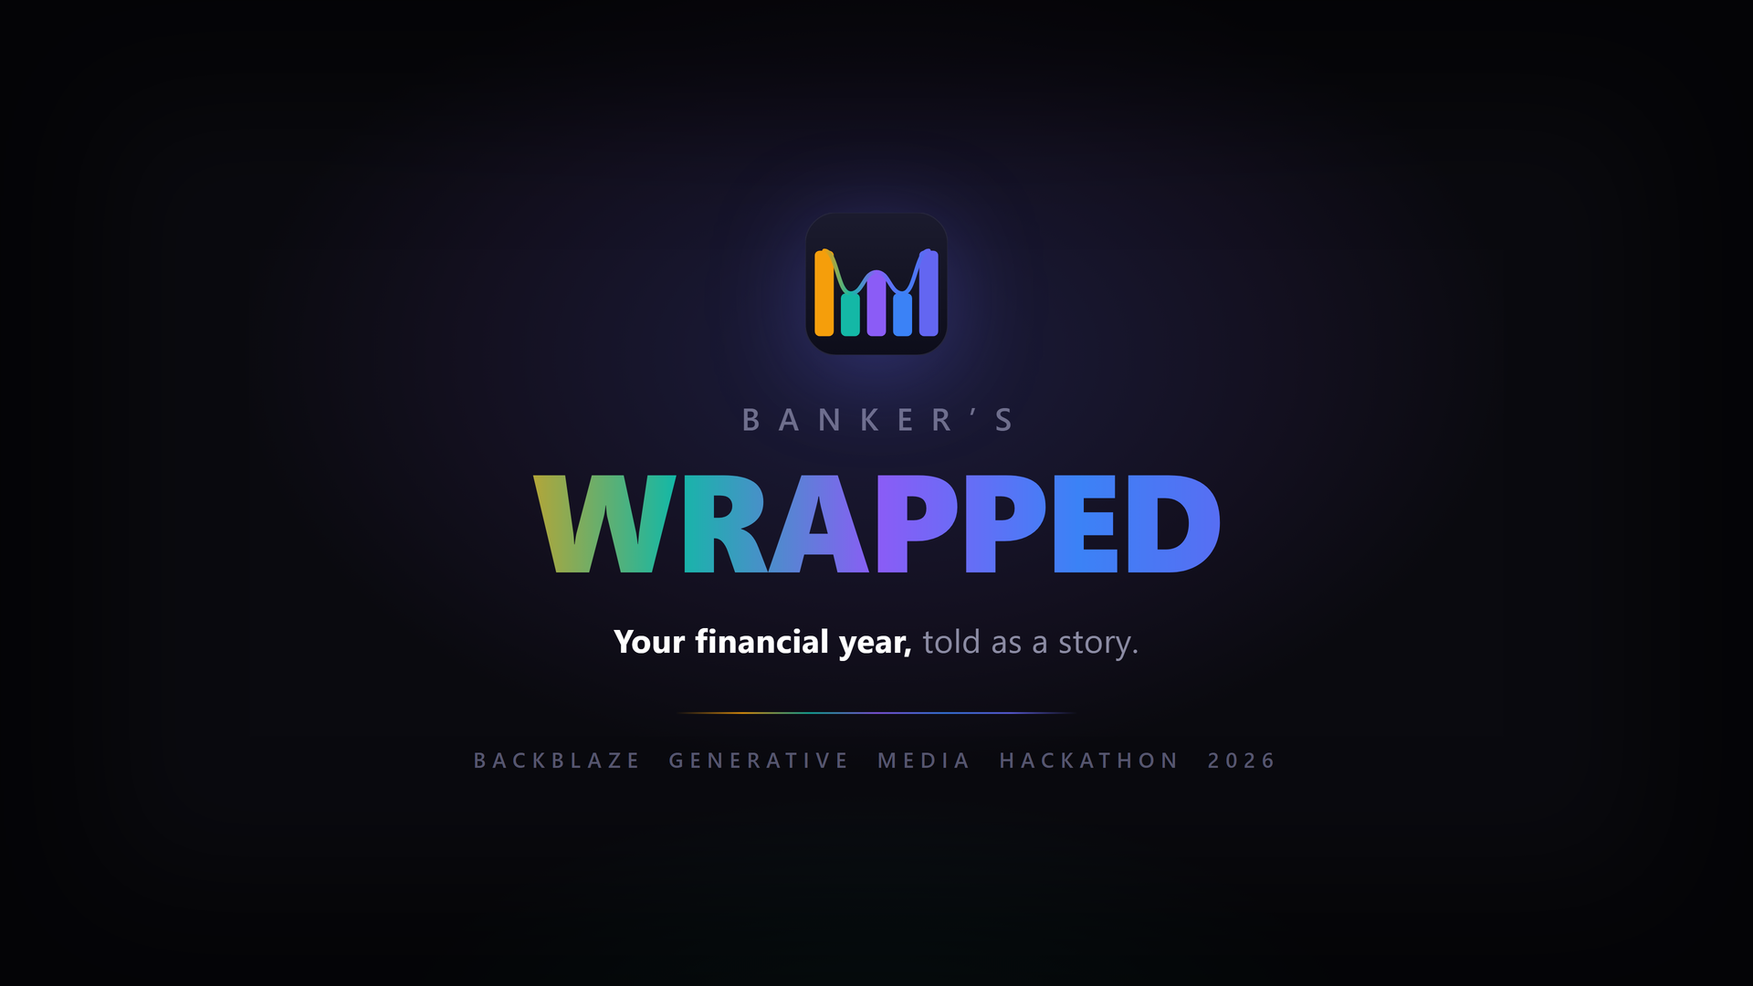
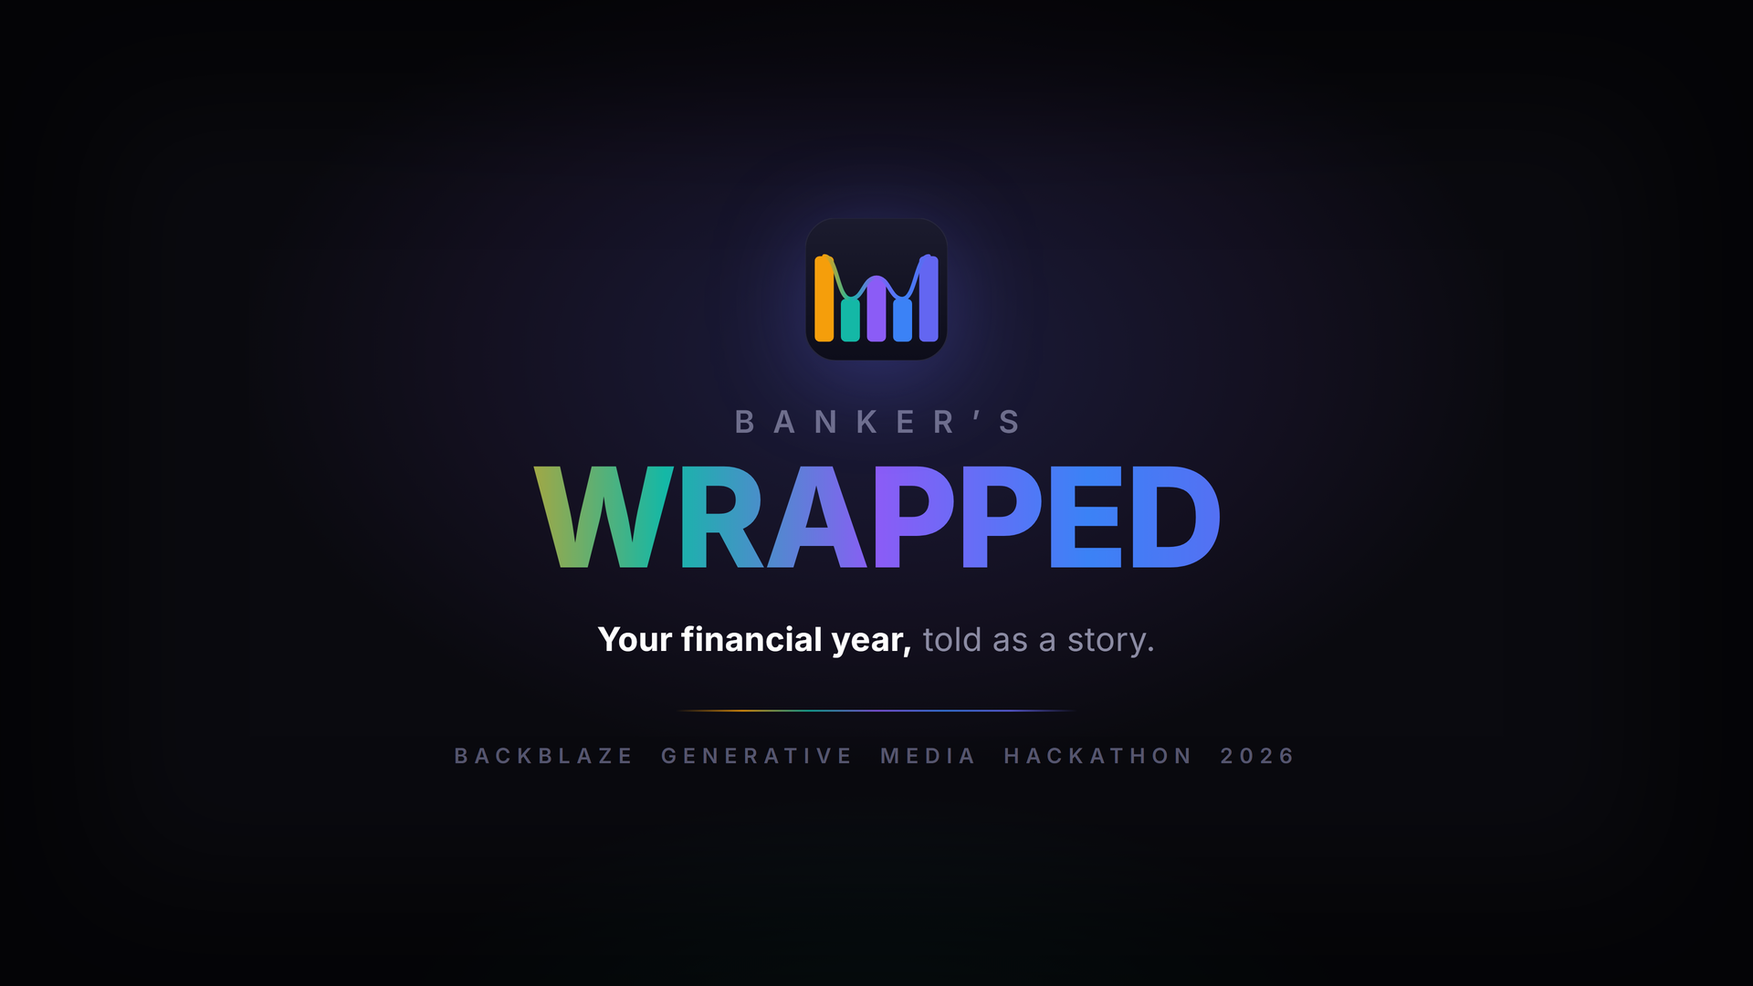
fix: real Inter loading + font-independent outlined wordmark
The deployed app referenced 'Inter' in CSS but never loaded it (no
@font-face / next/font / Google Fonts link), so every weight silently
fell back to system-ui. Load Inter via next/font/google (400/600/700/800)
and wire it through the --font-inter variable.

Replace the live-HTML gradient "Wrapped" title with a pre-outlined SVG
(frontend/public/wordmark.svg — glyphs converted to vector paths). As a
full-width block, the old 5-stop background-clip:text gradient painted
across the whole card while the centered glyphs only covered its middle,
hiding the amber/teal ends; the outlined SVG carries the full gradient,
needs no webfont, and renders pixel-identical everywhere at any DPI.
Applied to the home header and both recap-page headers. Add the idle
tagline echoing the signoff card and give the subtitle + tagline the
same bold emphasis as the brand cards.

Also load real Inter via Google Fonts in banner.html/signoff.html and
re-render the PNGs so the cards no longer depend on a system Segoe UI;
correct the demo-cards README's stale "Inter/Segoe" claim and its PNG
re-export command. Bump the app version and add the changelog entry.

Move the Architecture Decision Records table in README so it sits
directly under the Architecture diagram instead of at the bottom under
Production & Quality — the demo script scrolls straight from the
diagram to the ADR list, and the two were previously ~270 lines apart.
Tighten the corresponding DEMO_SCRIPT.md scroll cue to match.

diff --git a/frontend/app/globals.css b/frontend/app/globals.css
@@ -90,7 +90,7 @@ body { margin: 0; padding: 0; }
   align-items: center;
   justify-content: center;
   padding: 24px;
-  font-family: 'Inter', system-ui, sans-serif;
+  font-family: var(--font-inter), 'Inter', system-ui, sans-serif;
 }
 
 .bw-card {
@@ -122,18 +122,13 @@ body { margin: 0; padding: 0; }
   margin: 0 0 2px;
 }
 
-.bw-title {
-  font-size: 40px;
-  font-weight: 800;
-  margin: 0;
-  letter-spacing: -0.03em;
-  background: linear-gradient(90deg, #F59E0B, #14B8A6, #8B5CF6, #3B82F6, #6366f1);
-  -webkit-background-clip: text;
-  -webkit-text-fill-color: transparent;
-  background-clip: text;
-}
+.bw-title { margin: 0; line-height: 0; }
+/* Wordmark is a pre-outlined SVG (glyphs → vector paths) so it renders
+   identically everywhere with zero font-loading dependency. */
+.bw-wordmark { display: block; margin: 0 auto; width: 210px; height: auto; }
 
 .bw-subtitle { color: var(--text-subtle); margin-top: 8px; font-size: 15px; }
+.bw-subtitle strong { font-weight: 700; color: var(--text-emphasis); }
 
 /* ── Drop zone ───────────────────────────────────────────────────────────── */
 .bw-dropzone {
@@ -150,6 +145,8 @@ body { margin: 0; padding: 0; }
 .bw-drop-icon  { font-size: 48px; margin-bottom: 16px; }
 .bw-drop-text  { color: var(--text-secondary); font-size: 16px; margin: 0 0 6px; }
 .bw-drop-hint  { color: var(--text-dimmer); font-size: 13px; margin: 0 0 28px; }
+.bw-idle-tagline { color: var(--text-dimmest); font-size: 12px; line-height: 1.7; text-align: center; margin: 20px 0 0; letter-spacing: 0.01em; }
+.bw-idle-tagline strong { font-weight: 700; color: var(--text-secondary); }
 .bw-demo-btn {
   background: transparent;
   border: 1px solid var(--border-dim);

diff --git a/frontend/app/page.tsx b/frontend/app/page.tsx
@@ -363,8 +363,8 @@ export default function Home() {
         <div className="bw-header">
           <img src="/icon.svg" alt="" aria-hidden="true" className="bw-logo-icon" width="72" height="72" />
           <span className="bw-brand-label">BANKER&apos;S</span>
-          <h1 className="bw-title">Wrapped</h1>
-          <p className="bw-subtitle">Your financial year, told as a story.</p>
+          <h1 className="bw-title"><img src="/wordmark.svg" alt="Wrapped" className="bw-wordmark" /></h1>
+          <p className="bw-subtitle"><strong>Your financial year,</strong> told as a story.</p>
         </div>
 
         {/* Upload zone */}
@@ -412,6 +412,13 @@ export default function Home() {
               </button>
             )}
           </div>
+        )}
+        {stage === "idle" && (
+          <p className="bw-idle-tagline">
+            <strong>One connection.</strong> <strong>Five scenes.</strong> Your financial story.
+            <br />
+            Powered by <strong>Genblaze</strong> on <strong>Backblaze B2</strong>.
+          </p>
         )}
 
         {/* Live pipeline progress */}

diff --git a/frontend/app/recap/[session_id]/page.tsx b/frontend/app/recap/[session_id]/page.tsx
@@ -103,7 +103,7 @@ export default function SharePage() {
           <div className="bw-header">
             <img src="/icon.svg" alt="" aria-hidden="true" className="bw-logo-icon" width="72" height="72" />
             <span className="bw-brand-label">BANKER&apos;S</span>
-            <h1 className="bw-title">Wrapped</h1>
+            <h1 className="bw-title"><img src="/wordmark.svg" alt="Wrapped" className="bw-wordmark" /></h1>
           </div>
           <div className="bw-error-box">
             <p className="bw-error-text">⚠ {error}</p>
@@ -140,7 +140,7 @@ export default function SharePage() {
         <div className="bw-header">
           <img src="/icon.svg" alt="" aria-hidden="true" className="bw-logo-icon" width="72" height="72" />
           <span className="bw-brand-label">BANKER&apos;S</span>
-          <h1 className="bw-title">Wrapped</h1>
+          <h1 className="bw-title"><img src="/wordmark.svg" alt="Wrapped" className="bw-wordmark" /></h1>
           <p className="bw-subtitle">Someone shared their financial story with you.</p>
         </div>
 

diff --git a/frontend/app/layout.tsx b/frontend/app/layout.tsx
@@ -1,5 +1,13 @@
 import type { Metadata } from "next";
+import { Inter } from "next/font/google";
 import "./globals.css";
+
+const inter = Inter({
+  subsets: ["latin"],
+  weight: ["400", "600", "700", "800"],
+  variable: "--font-inter",
+  display: "swap",
+});
 
 export const metadata: Metadata = {
   title: "Banker's Wrapped",
@@ -18,7 +26,7 @@ export const metadata: Metadata = {
 export default function RootLayout({ children }: { children: React.ReactNode }) {
   return (
     <html lang="en">
-      <body>{children}</body>
+      <body className={inter.variable}>{children}</body>
     </html>
   );
 }

diff --git a/assets/demo-cards/banner.html b/assets/demo-cards/banner.html
@@ -2,6 +2,9 @@
 <html>
 <head>
 <meta charset="utf-8">
+<link rel="preconnect" href="https://fonts.googleapis.com">
+<link rel="preconnect" href="https://fonts.gstatic.com" crossorigin>
+<link href="https://fonts.googleapis.com/css2?family=Inter:wght@400;600;700;800&display=block" rel="stylesheet">
 <style>
   /* Theme tokens — dark is default; [data-theme="light"] swaps them.
      Both PNGs render from THIS one file: ?theme=dark / ?theme=light. */

diff --git a/assets/demo-cards/signoff.html b/assets/demo-cards/signoff.html
@@ -2,6 +2,9 @@
 <html>
 <head>
 <meta charset="utf-8">
+<link rel="preconnect" href="https://fonts.googleapis.com">
+<link rel="preconnect" href="https://fonts.gstatic.com" crossorigin>
+<link href="https://fonts.googleapis.com/css2?family=Inter:wght@400;600;700;800&display=block" rel="stylesheet">
 <style>
   /* Theme tokens — dark is default; [data-theme="light"] swaps them.
      Both PNGs render from THIS one file: ?theme=dark / ?theme=light. */

diff --git a/backend/config.py b/backend/config.py
@@ -8,7 +8,7 @@ class Settings(BaseSettings):
 
     # App
     app_name: str = "Banker's Wrapped"
-    app_version: str = "1.9.0"
+    app_version: str = "1.9.1"
     debug: bool = False
 
     # CORS — defaults to wildcard for hackathon; override via CORS_ALLOW_ORIGINS env var in production

diff --git a/README.md b/README.md
@@ -68,22 +68,39 @@ Banker's Wrapped solves this with an agentic pipeline that reads your transactio
 ## Architecture
 
 <p align="center">
-  <picture>
-    <source media="(prefers-color-scheme: dark)" srcset="assets/architecture/architecture-diagram-dark.svg">
-    <source media="(prefers-color-scheme: light)" srcset="assets/architecture/architecture-diagram-light.svg">
-    <img width="900" src="assets/architecture/architecture-diagram-light.svg"
-         alt="Banker's Wrapped architecture — User to FastAPI (rate-limit 5/hr) to the typed async Agent Pipeline to Backblaze B2 (14 files); the pipeline runs Document, Analytics, Narrative (Genblaze Chat on GMI Cloud, NIM fallback), and Media Agent, which fans out to GMI Cloud Seedream and OpenAI TTS before FFmpeg composes the final video"/>
-  </picture>
+  <a href="assets/architecture/architecture-diagram-light.svg" target="_blank" rel="noopener noreferrer">
+    <picture>
+      <source media="(prefers-color-scheme: dark)" srcset="assets/architecture/architecture-diagram-dark.svg">
+      <source media="(prefers-color-scheme: light)" srcset="assets/architecture/architecture-diagram-light.svg">
+      <img width="900" src="assets/architecture/architecture-diagram-light.svg"
+           alt="Banker's Wrapped architecture — User to FastAPI (rate-limit 5/hr) to the typed async Agent Pipeline to Backblaze B2 (14 files); the pipeline runs Document, Analytics, Narrative (Genblaze Chat on GMI Cloud, NIM fallback), and Media Agent, which fans out to GMI Cloud Seedream and OpenAI TTS before FFmpeg composes the final video"/>
+    </picture>
+  </a>
 </p>
 
-<sub>Source: [`assets/architecture/architecture-diagram.mmd`](assets/architecture/architecture-diagram.mmd) — rendered to brand-themed SVG/PNG (dark + light) via `mermaid-cli`; see [`assets/architecture/README.md`](assets/architecture/README.md) for the regenerate command.</sub>
-
-    PL -.-> A1
-```
+<sub>Click to enlarge (opens full-resolution SVG — scales without pixelation): <a href="assets/architecture/architecture-diagram-light.svg" target="_blank" rel="noopener noreferrer">light</a> / <a href="assets/architecture/architecture-diagram-dark.svg" target="_blank" rel="noopener noreferrer">dark</a> · Source: [`assets/architecture/architecture-diagram.mmd`](assets/architecture/architecture-diagram.mmd) — rendered to brand-themed SVG/PNG (dark + light) via `mermaid-cli`; see [`assets/architecture/README.md`](assets/architecture/README.md) for the regenerate command.</sub>
 
 **In short:** ~2–4 minutes end to end, with image generation dominating (5 scenes generated in parallel); **14 files across 10 artifact types** persisted to Backblaze B2 as the source of truth; every artifact carries a **SHA-256** and every step logs model, latency, and retries.
 
 > **Deep dive** → **[`docs/ARCHITECTURE.md`](docs/ARCHITECTURE.md)** — per-step pipeline timing, the full B2 storage layout, lifecycle & integrity (45-day retention + per-artifact SHA-256), and the four machine-readable provenance manifests.
+
+### Architecture Decision Records
+
+Eleven decisions documented (001–011), **all accepted and implemented** — see [`docs/adr/`](docs/adr/) for full rationale.
+
+| ADR | Decision |
+| --- | --- |
+| [001](docs/adr/001-genblaze-central.md) | Genblaze as sole media generation layer — no direct provider calls |
+| [002](docs/adr/002-semantic-kernel-orchestration.md) | Lightweight typed async agent pipeline — Semantic Kernel considered, not adopted (no framework dependency) |
+| [003](docs/adr/003-ffmpeg-over-remotion.md) | FFmpeg for composition; Runway ML / Luma AI excluded (impl revised in v1.6.0) |
+| [004](docs/adr/004-sqlite-for-mvp.md) | SQLite for MVP, PostgreSQL as documented production upgrade |
+| [005](docs/adr/005-financial-personality-core.md) | Financial Personality promoted to required scope — the emotional hook |
+| [006](docs/adr/006-observability-scope.md) | structlog JSON logging only — OpenTelemetry is post-hackathon |
+| [007](docs/adr/007-genblaze-sole-ai-layer.md) | Route the narrative LLM through Genblaze (GMI Cloud chat, NIM fallback) — 3 of 4 AI steps via Genblaze |
+| [008](docs/adr/008-b2-source-of-truth.md) | B2 as session source of truth — SQLite is a cache; sessions survive redeploys |
+| [009](docs/adr/009-b2-lifecycle-integrity.md) | B2 lifecycle rules (45-day retention) + per-artifact SHA-256 integrity |
+| [010](docs/adr/010-plaid-sandbox-ingestion.md) | Plaid sandbox connector — optional "connect a bank" path (live in production) |
+| [011](docs/adr/011-compositor-redesign.md) | Memory-bounded segment+concat compositor + non-blocking event loop (v1.6.0 redesign) |
 
 ---
 
@@ -337,24 +354,6 @@ winget install k6   # or: brew install k6
 k6 run tests/load/k6_smoke.js                                  # local backend
 k6 run -e BASE_URL=https://<railway-url> tests/load/k6_smoke.js  # production
 ```
-
-### Architecture Decision Records
-
-Eleven decisions documented (001–011), **all accepted and implemented** — see [`docs/adr/`](docs/adr/) for full rationale.
-
-| ADR | Decision |
-| --- | --- |
-| [001](docs/adr/001-genblaze-central.md) | Genblaze as sole media generation layer — no direct provider calls |
-| [002](docs/adr/002-semantic-kernel-orchestration.md) | Lightweight typed async agent pipeline — Semantic Kernel considered, not adopted (no framework dependency) |
-| [003](docs/adr/003-ffmpeg-over-remotion.md) | FFmpeg for composition; Runway ML / Luma AI excluded (impl revised in v1.6.0) |
-| [004](docs/adr/004-sqlite-for-mvp.md) | SQLite for MVP, PostgreSQL as documented production upgrade |
-| [005](docs/adr/005-financial-personality-core.md) | Financial Personality promoted to required scope — the emotional hook |
-| [006](docs/adr/006-observability-scope.md) | structlog JSON logging only — OpenTelemetry is post-hackathon |
-| [007](docs/adr/007-genblaze-sole-ai-layer.md) | Route the narrative LLM through Genblaze (GMI Cloud chat, NIM fallback) — 3 of 4 AI steps via Genblaze |
-| [008](docs/adr/008-b2-source-of-truth.md) | B2 as session source of truth — SQLite is a cache; sessions survive redeploys |
-| [009](docs/adr/009-b2-lifecycle-integrity.md) | B2 lifecycle rules (45-day retention) + per-artifact SHA-256 integrity |
-| [010](docs/adr/010-plaid-sandbox-ingestion.md) | Plaid sandbox connector — optional "connect a bank" path (live in production) |
-| [011](docs/adr/011-compositor-redesign.md) | Memory-bounded segment+concat compositor + non-blocking event loop (v1.6.0 redesign) |
 
 ---
 

diff --git a/CLAUDE.md b/CLAUDE.md
@@ -6,7 +6,7 @@ AI-powered financial storytelling platform built for the **Backblaze Generative 
 
 Upload a CSV → 4-agent pipeline → personalized narrated MP4 recap video stored on Backblaze B2.
 
-**Current phase**: **v1.9.0 released** (2026-07-12) — feature-complete. A maintenance/release-hardening pass plus a full documentation sweep (README restructured, `docs/ARCHITECTURE.md` extracted, theme-aware SVG README banners under `assets/`, demo title/closing cards under `assets/demo-cards/`). All five v1.7.0-roadmap workstreams shipped in **v1.8.0**: WS-1 Genblaze LLM routing (ADR-007), WS-2 B2 source-of-truth (ADR-008), WS-3 lifecycle + SHA-256 integrity (ADR-009), WS-4 Plaid sandbox connector (ADR-010 — httpx REST, no plaid-python; Plaid txns → CSV → unchanged pipeline; feature-flagged off without keys), WS-5 hardening (ADR-011, k6 smoke test, specific-advice prompt, Postgres-claim honesty sweep). **v1.8.1** fixed real NIM routing + fallback. Feature-code freeze in effect. **Remaining before submission (→ 2.0.0): demo video (≤3 min) + Devpost form, then wire both URLs into README + `submission/SUBMISSION.md`.**
+**Current phase**: **v1.9.1 released** (2026-07-14) — feature-complete. v1.9.0 was a maintenance/release-hardening pass plus a full documentation sweep (README restructured, `docs/ARCHITECTURE.md` extracted, theme-aware SVG README banners under `assets/`, demo title/closing cards under `assets/demo-cards/`); **v1.9.1** is a frontend typography/branding fix — real Inter now loads via `next/font/google`, and the "Wrapped" wordmark is a font-independent outlined SVG (`frontend/public/wordmark.svg`, glyphs → vector paths) so it matches the brand cards on every browser without a webfont dependency. All five v1.7.0-roadmap workstreams shipped in **v1.8.0**: WS-1 Genblaze LLM routing (ADR-007), WS-2 B2 source-of-truth (ADR-008), WS-3 lifecycle + SHA-256 integrity (ADR-009), WS-4 Plaid sandbox connector (ADR-010 — httpx REST, no plaid-python; Plaid txns → CSV → unchanged pipeline; feature-flagged off without keys), WS-5 hardening (ADR-011, k6 smoke test, specific-advice prompt, Postgres-claim honesty sweep). **v1.8.1** fixed real NIM routing + fallback. Feature-code freeze in effect. **Remaining before submission (→ 2.0.0): demo video (≤3 min) + Devpost form, then wire both URLs into README + `submission/SUBMISSION.md`.**
 
 WS-1 (ADR-007) operational detail: `NarrativeAgent` is SDK-only — Genblaze chat with the model from `GMI_CHAT_MODEL` when `NARRATIVE_PROVIDER=genblaze`; **automatic NIM fallback on provider failure or invalid JSON** (one final SDK attempt via NIM's endpoint). ⚠ `GMI_CHAT_MODEL` must be an id GMI actually serves (`GET api.gmi-serving.com/v1/models`) — **GMI hosts no meta-llama models**; prod uses `openai/gpt-5.4-mini` (~$0.005/run).
 

diff --git a/assets/demo-cards/README.md b/assets/demo-cards/README.md
@@ -24,9 +24,11 @@ filmed either way (`DEMO_SCRIPT` reveal beat). **Match the card to the mode you 
 dark cards if you film in dark mode (default), light cards if you film in light mode. Don't mix.
 
 Built from the app's real brand: the `frontend/public/logo.svg` icon (5 gradient bars + wave arc),
-the gradient "WRAPPED" wordmark, Inter/Segoe typography, and the exact theme tokens from
-`frontend/app/globals.css` (dark `#0a0a0f`; light `#eef0f7` with the darker gradient stops the app
-switches to in light mode). Logo tile stays dark in both, exactly as the app renders it.
+the gradient "WRAPPED" wordmark, real Inter typography (loaded via Google Fonts in `banner.html`/
+`signoff.html` — same font the app now self-hosts via `next/font/google`, not a system-font
+fallback), and the exact theme tokens from `frontend/app/globals.css` (dark `#0a0a0f`; light
+`#eef0f7` with the darker gradient stops the app switches to in light mode). Logo tile stays dark
+in both, exactly as the app renders it.
 
 ## Editing the video-card text / re-rendering the PNGs
 
@@ -40,16 +42,25 @@ export; that also hides the on-page **◐ Toggle theme** button so the render is
 If you edit a video card's wording, keep it in sync with the corresponding `.svg`'s text (they're
 meant to say the same thing) — see the SVG files' `<text>` elements directly.
 
+Both HTML sources load real Inter from Google Fonts (`<link>` in `<head>`), so re-exporting needs
+network access. `--virtual-time-budget` below gives the webfont request time to land before the
+screenshot fires — drop it and you'll silently get the system-font fallback instead.
+
 - **Preview:** open `banner.html` in any browser (fixed 1920×1080 canvas) and click **◐ Toggle theme**.
-- **Re-export both PNGs** (renders at 2× via headless Edge, downscales with ffmpeg for crisp text):
+- **Re-export both PNGs** (renders at 2× via headless Edge, downscales with ffmpeg for crisp text).
+  Under Git Bash on Windows, build the `file:///` URL from a **Windows-style** path (`C:/...`), not
+  `$(pwd)` — a POSIX-style `/c/...` path passed inside a `file://` URL string isn't auto-translated
+  and Edge reports `ERR_FILE_NOT_FOUND`:
 
 ```bash
 EDGE="/c/Program Files (x86)/Microsoft/Edge/Application/msedge.exe"
+CARDS_WIN="C:/ws/bankers-wrapped/assets/demo-cards"   # adjust to your checkout path
 for card in banner signoff; do
   for theme in dark light; do
     "$EDGE" --headless=new --disable-gpu --hide-scrollbars \
       --force-device-scale-factor=2 --window-size=1920,1080 \
-      --screenshot=out_2x.png "file:///$(pwd)/$card.html?theme=$theme"
+      --virtual-time-budget=4000 \
+      --screenshot=out_2x.png "file:///$CARDS_WIN/$card.html?theme=$theme"
     ffmpeg -y -i out_2x.png -vf scale=1920:1080:flags=lanczos "$card-$theme.png"
   done
 done

diff --git a/CHANGELOG.md b/CHANGELOG.md
@@ -15,6 +15,41 @@ _Targeting **2.0.0** (submission):_
 
 ---
 
+## [1.9.1] — 2026-07-14
+
+Frontend typography + branding fixes so the deployed app matches the brand cards.
+No backend behavior change.
+
+### Added
+
+- **Font-independent wordmark** — `frontend/public/wordmark.svg`, the gradient "Wrapped"
+  wordmark with its Inter ExtraBold glyphs pre-converted to vector paths. It carries no
+  font dependency, so it renders pixel-identical on every browser/OS and stays crisp at any
+  DPI. Used on the home header and both recap-page headers. (The banner/signoff cards can't
+  be reused directly in the app: `<img>`-referenced SVGs can't load webfonts, and the PNGs
+  are fixed 16:9 video cards.)
+- **Idle-screen tagline** echoing the signoff card — "One connection. Five scenes. Your
+  financial story." + "Powered by Genblaze on Backblaze B2.", with the same bold emphasis.
+
+### Fixed
+
+- **Inter never actually loaded** — `globals.css` referenced `'Inter'` but no `@font-face`,
+  `next/font`, or Google Fonts link existed, so every weight silently fell back to
+  `system-ui`. Now loaded via `next/font/google` (400/600/700/800) and wired through the
+  `--font-inter` variable.
+- **"Wrapped" gradient was clipped** — as a full-width block the 5-stop `background-clip:text`
+  gradient painted across the whole card while the centered glyphs only covered its middle,
+  hiding the amber/teal ends. Resolved by the outlined-SVG wordmark above.
+- **Subtitle emphasis** — "Your financial year," is now bold, matching the brand cards.
+
+### Docs
+
+- `assets/demo-cards/README.md`: corrected the stale "Inter/Segoe typography" claim
+  (`banner.html`/`signoff.html` now load real Inter via Google Fonts) and fixed the
+  PNG re-export command (`--virtual-time-budget` + Windows `file://` path).
+
+---
+
 ## [1.9.0] — 2026-07-12
 
 Maintenance + release-hardening pass ahead of submission. No runtime behavior change.

diff --git a/submission/DEMO_SCRIPT.md b/submission/DEMO_SCRIPT.md
@@ -73,7 +73,7 @@ Now start OBS recording once, and go through these in order without stopping:
 3. **Switch to the Pre-Generated Recap Page**: scroll down to where it lists the artifact files (video, images, audio, JSON files — the "Pipeline Artifacts" section). Pause on it for a few seconds so it's readable.
 4. **Switch to the Backblaze B2 Console**: click into `generation.json` and hover near the `"llm"` block and the SHA-256 hash list so both are visible on screen.
 5. **Switch back to the Pre-Generated Recap Page**: hit your browser's refresh button and let the page reload and finish loading.
-6. **Switch to the GitHub README Page**: sit for a few seconds on the row of badges (CI, coverage, etc.) near the top, then scroll *past* the architecture diagram — don't linger on it, it's not used from here (see Step 0) — down to wherever the ADR list is (the architecture decision records), and pause there for a couple seconds.
+6. **Switch to the GitHub README Page**: sit for a few seconds on the row of badges (CI, coverage, etc.) near the top, then scroll down past the architecture diagram — don't linger on it, it's not used from here (see Step 0) — the ADR list sits right underneath it now, so pause there for a couple seconds.
 7. **Switch to the Codecov Page** *(optional, only if time allows)*: sit on it for 2–3 seconds.
 8. Stop OBS recording.
 9. Save this file separately, e.g. `main-take.mp4`.
